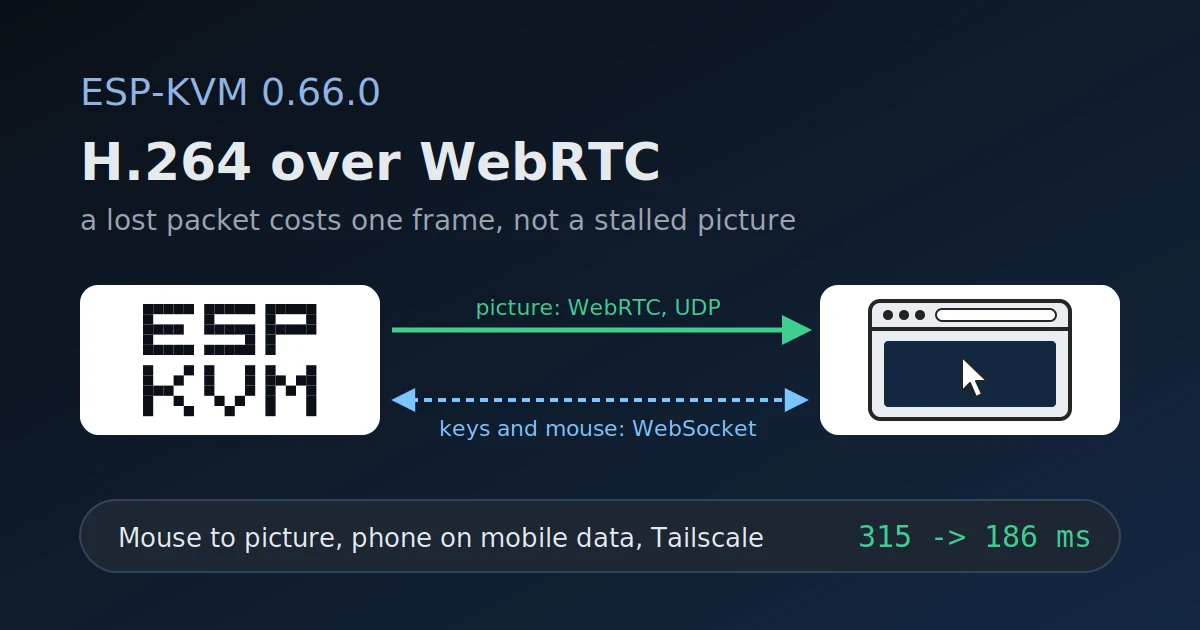
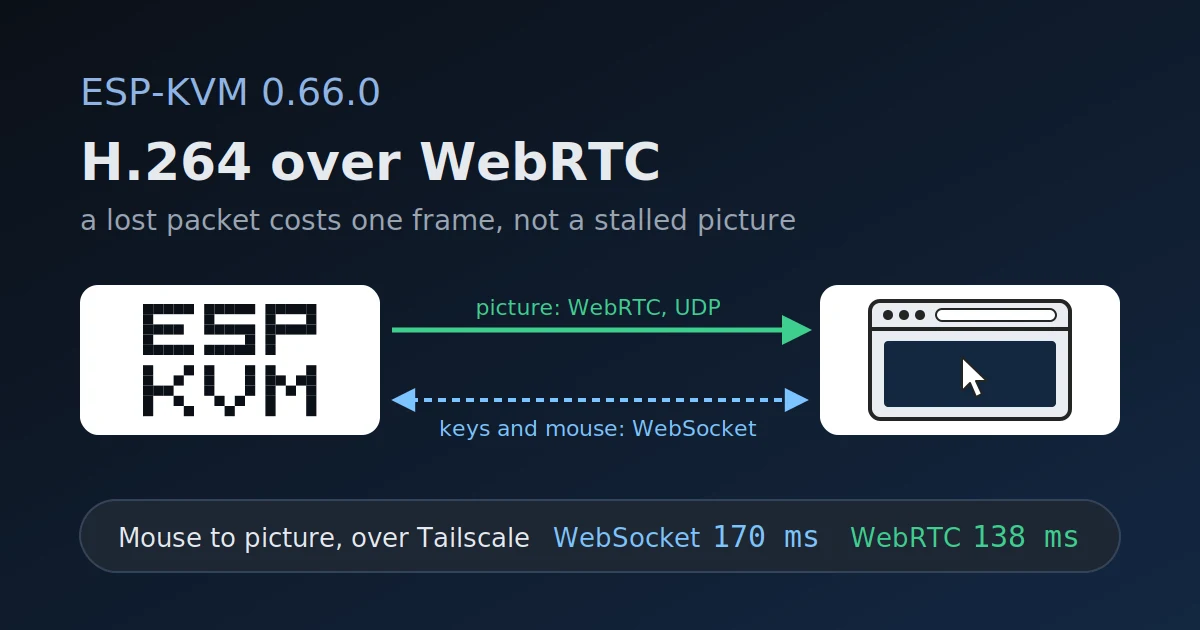
0.66.0 post: WebSocket vs WebRTC table, 0.65.0 vs 0.66.0 table, new hero

Changed region(s): [[0.2775, 0.8143, 0.6783, 0.8746], [0.7092, 0.8143, 0.925, 0.8746]]

diff --git a/_posts/2026-10-18-0-66-0-h264-over-webrtc.md b/_posts/2026-10-18-0-66-0-h264-over-webrtc.md
@@ -16,17 +16,24 @@ The WebRTC part on the device is my own small one: ICE-lite, DTLS-SRTP, H.264 in
 
 Mouse to picture, measured with the console's "Measure the delay":
 
-| Path | Before | After |
+| Path | WebSocket | WebRTC |
 |---|---|---|
-| Phone on mobile data, Tailscale, WebRTC | 315 ms | 186 ms |
-| PC over Tailscale, WebSocket | 2266 ms | 170 ms |
-| PC over Tailscale, WebRTC | - | 138 ms |
+| PC on the LAN | 166 ms | 133 ms |
+| PC over Tailscale, direct | 170 ms | 138 ms |
+| Phone on mobile data, Tailscale | - | 186 ms |
 
-The first row is one change: the device asks Chrome to show each frame at once, without its smoothing buffer (the playout-delay RTP extension). The buffer went from about 90 ms to 2.
+WebRTC is about 30 ms faster even on a clean link. Part of that is one header: the device asks Chrome to show each frame at once, without its smoothing buffer (the playout-delay RTP extension). On the phone that took the delay from 315 to 186 ms. The frame rate does not change with the transport: about 23 fps at 1080p either way, which is what the encoder gives.
 
 ## WebSocket over Tailscale
 
-The 2266 ms over the WebSocket was a bug in the device, not in the tunnel. After a keyframe it skipped the next frame, because lwIP calls a socket writable only when half its send buffer is free, and over a VPN the keyframe had not drained by then. A skipped H.264 frame needs a new keyframe, so it went on: one picture every 2.5 s. A viewer that acks frames is now paced by its acks alone. Over Tailscale it now runs at 23 fps, with no gap longer than 0.15 s.
+The WebSocket over Tailscale, in Chrome on a PC:
+
+| | 0.65.0 | 0.66.0 |
+|---|---|---|
+| Mouse to picture | 2266 ms | 170 ms |
+| Frames | 2 every 2.5 s | 23 fps |
+
+The cause was a bug in the firmware, in the code that sends video, not in Tailscale. After a keyframe that code skipped the next frame, because lwIP calls a socket writable only when half its send buffer is free, and over a VPN the keyframe had not drained by then. A skipped H.264 frame needs a new keyframe, so it went on: one picture every 2.5 s. A viewer that acks frames is now paced by its acks alone.
 
 ## Also in 0.66.0
 
